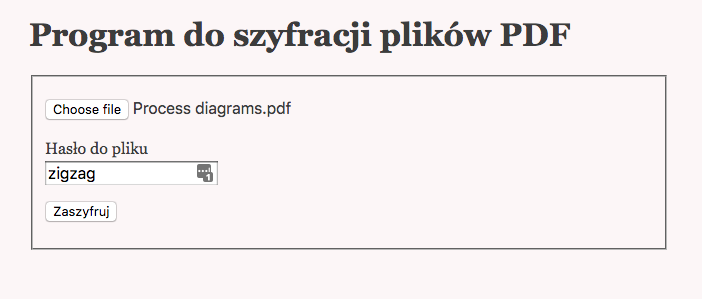
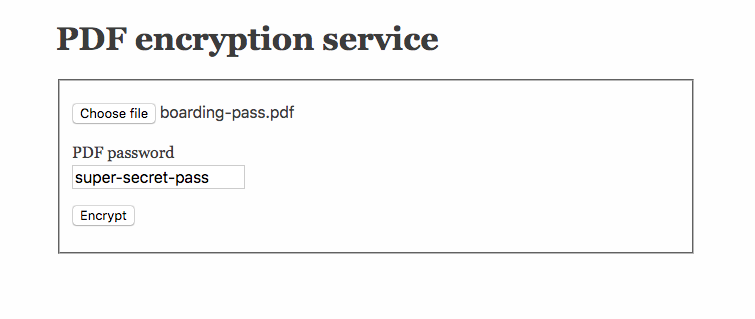
translate to english

diff --git a/app/public/index.html b/app/public/index.html
@@ -1,8 +1,6 @@
 <html>
 
 <head>
-    <!-- <link rel="stylesheet" href="node_modules/normalize.css/normalize.css" /> -->
-
     <style>
         html {
             font-size: medium;
@@ -17,7 +15,7 @@
             padding: 0 2em;
 
             color: #444;
-            background-color: #a8023008;
+            background-color: #ececec08;
         }
 
         h1,
@@ -37,20 +35,19 @@
 
 <body>
 
-    <h1>Program do szyfracji plików PDF</h1>
+    <h1>PDF encryption service</h1>
 
     <form ref='uploadForm' id='uploadForm' action='upload' method='post' encType="multipart/form-data">
         <fieldset>
-            <!-- <legend>Fruit juice size</legend> -->
             <p>
                 <input type="file" name="pdf" />
             </p>
             <p>
-                <div>Hasło do pliku</div>
+                <div>PDF password</div>
                 <input type="text" name="password" />
             </p>
             <p>
-                <input type='submit' value='Zaszyfruj' />
+                <input type='submit' value='Encrypt' />
             </p>
         </fieldset>
     </form>
